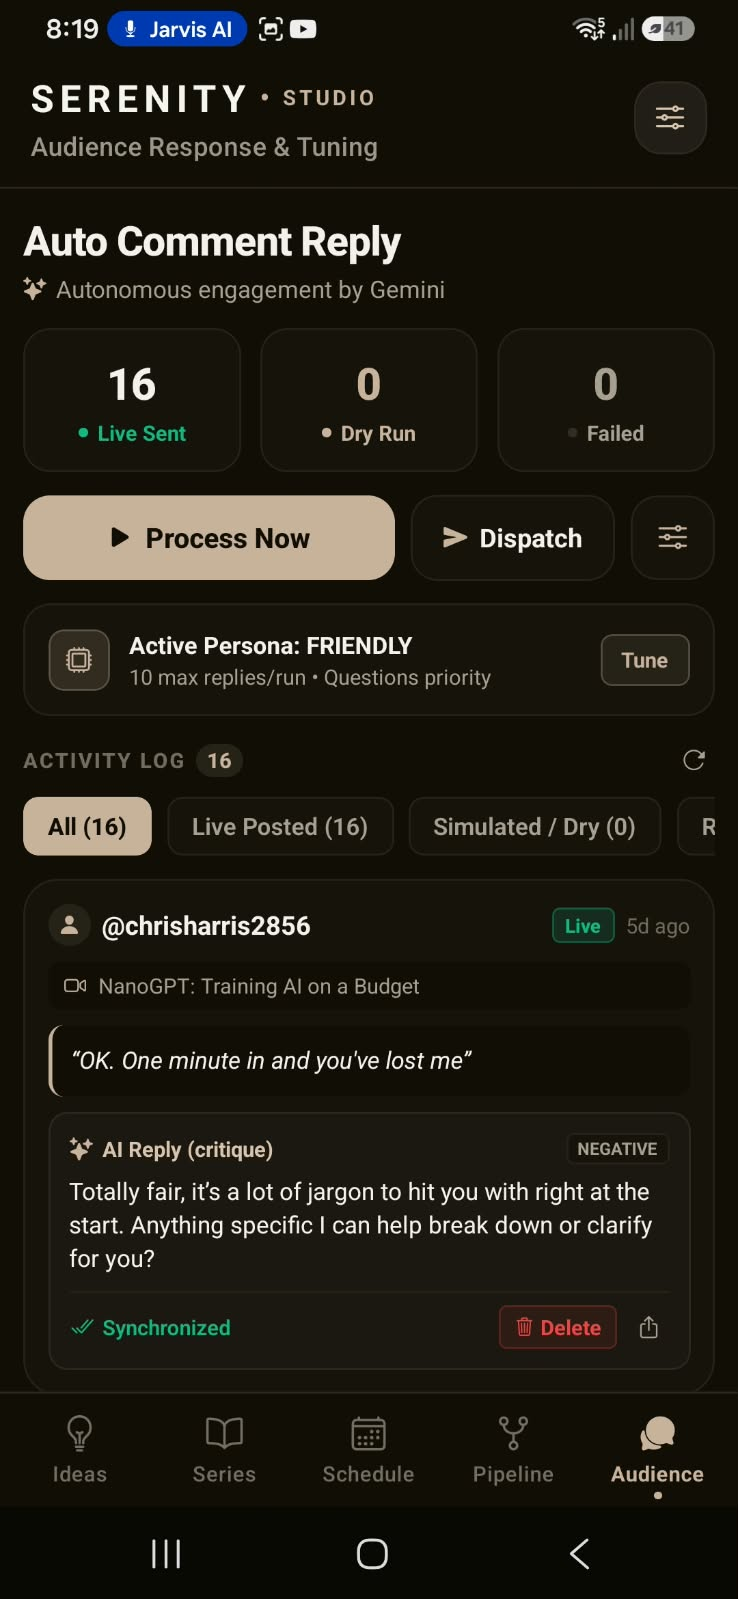
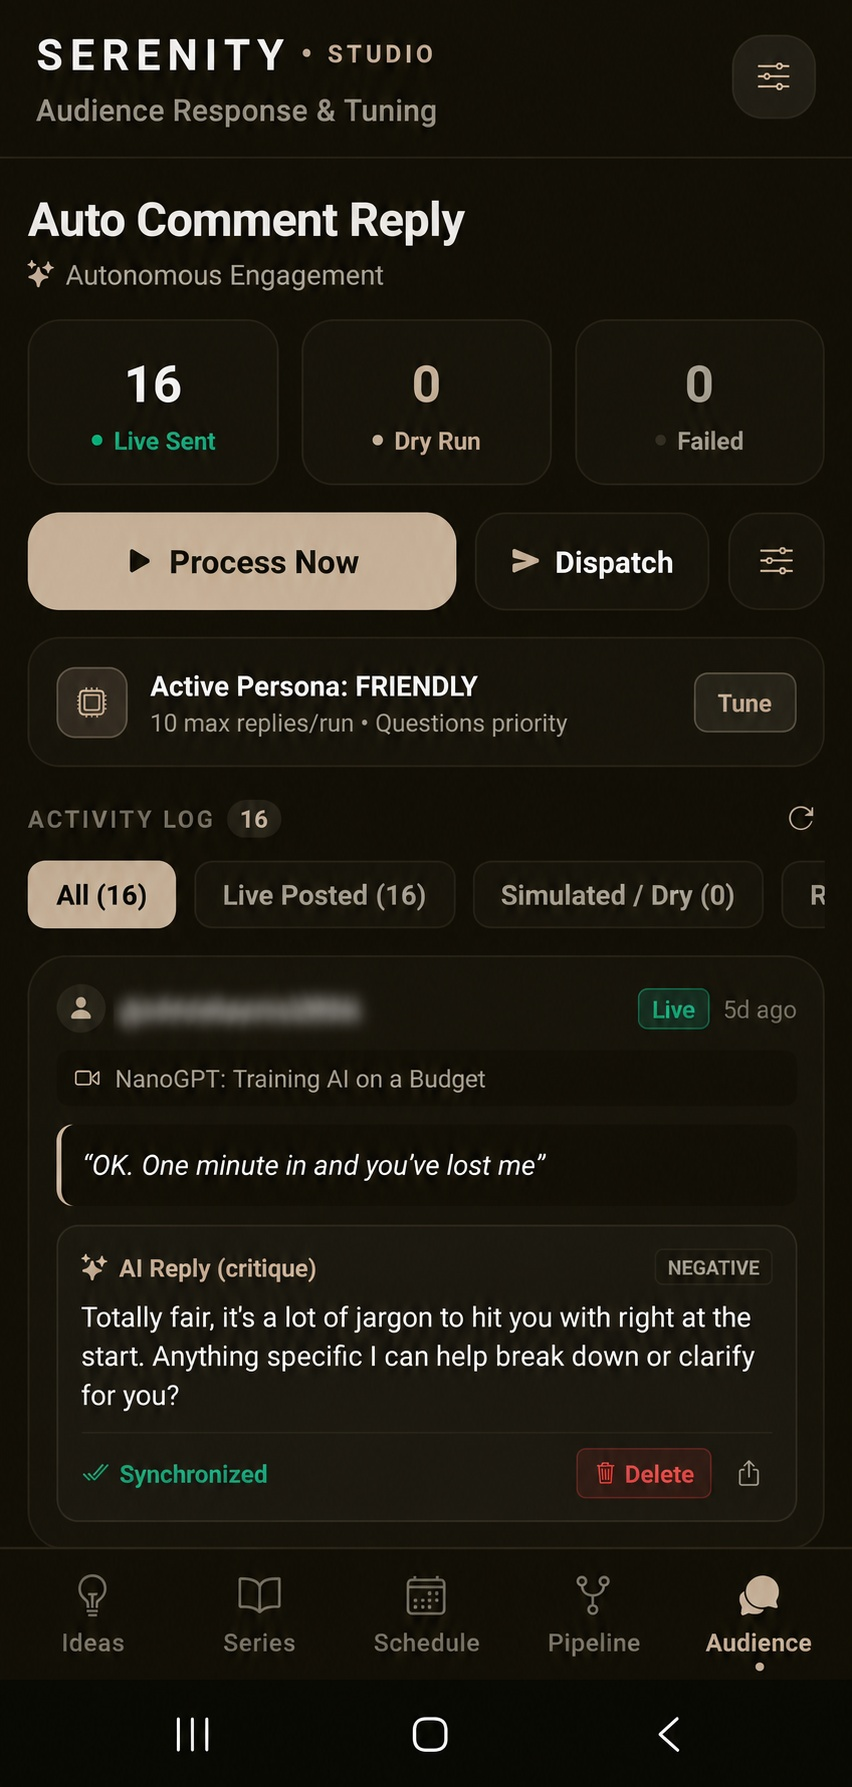
feat(landing): update app screenshots and neutralize AI model claims to autonomous engagement

diff --git a/motioncraft-landing/components/ProductShowcase.tsx b/motioncraft-landing/components/ProductShowcase.tsx
@@ -83,10 +83,10 @@ const SHOWCASE_FEATURES: ShowcaseFeature[] = [
   {
     id: "audience-engagement",
     badge: "AUTONOMOUS ENGAGEMENT & RETENTION",
-    headline: "Auto Comment Reply Powered by Gemini: Always Engaged",
+    headline: "Autonomous Comment Reply: Always Engaged",
     subhead: "Autonomous Community Engagement with Tuned Brand Personas",
     description:
-      "Viewer retention isn't just about uploading videos—it's about responding to early feedback. Serenity Studio uses Gemini AI to review audience comments, prioritize technical questions, and reply empathetically to critiques.",
+      "Viewer retention isn't just about uploading videos—it's about responding to early feedback. Serenity Studio uses autonomous response intelligence to review audience comments, prioritize technical questions, and reply empathetically to critiques.",
     screenshotUrl: "/screenshots/audience-engagement.jpg",
     screenshotAlt: "Serenity Studio Audience Response & Tuning screen",
     metrics: [

diff --git a/motioncraft-landing/components/FaqSection.tsx b/motioncraft-landing/components/FaqSection.tsx
@@ -12,7 +12,7 @@ const FAQS: FaqItem[] = [
   {
     question: "What exactly does Serenity Studio automate?",
     answer:
-      "Serenity Studio automates the full operational production chain: topic queue management, beat-by-beat scene scripting, voiceover audio synthesis, 1080p motion graphic rendering, multi-track master assembly, high-CTR thumbnail generation, scheduled YouTube long-form publishing, 5-slot Shorts syndication, and Gemini-powered audience comment responses.",
+      "Serenity Studio automates the full operational production chain: topic queue management, beat-by-beat scene scripting, voiceover audio synthesis, 1080p motion graphic rendering, multi-track master assembly, high-CTR thumbnail generation, scheduled YouTube long-form publishing, 5-slot Shorts syndication, and autonomous audience comment responses.",
   },
   {
     question: "Can I review and edit content before it gets published?",

diff --git a/motioncraft-landing/components/AudienceSection.tsx b/motioncraft-landing/components/AudienceSection.tsx
@@ -25,7 +25,7 @@ const AUDIENCE_SEGMENTS = [
     title: "YouTube Automation Agencies",
     tagline: "Deliver consistent publishing schedules for high-ticket clients",
     pain: "Missed deadlines, inconsistent thumbnail branding, and dropped upload cadence.",
-    gain: "Predictable daily release windows (e.g. 18:30 IST) and automated Gemini comment engagement for client retention.",
+    gain: "Predictable daily release windows (e.g. 18:30 IST) and autonomous comment engagement for client retention.",
   },
 ];
 

diff --git a/motioncraft-landing/lib/pricing-config.ts b/motioncraft-landing/lib/pricing-config.ts
@@ -58,7 +58,7 @@ export const BETA_PRICING_CONFIG: {
       "Programmatic high-CTR YouTube thumbnails",
       "Automated YouTube long-form scheduling (Prime windows)",
       "5-slot automated Shorts clipping & retention scheduling",
-      "Autonomous Gemini-powered comment response & persona tuning",
+      "Autonomous comment response & persona tuning",
     ],
     operationalBenefits: [
       "Priority GPU rendering queue & dedicated storage",

diff --git a/motioncraft-landing/components/WorkflowSection.tsx b/motioncraft-landing/components/WorkflowSection.tsx
@@ -88,7 +88,7 @@ const WORKFLOW_STEPS: WorkflowStep[] = [
   {
     number: "09",
     stage: "Autonomous Audience Engagement",
-    headline: "Gemini-Powered Comment Tuning",
+    headline: "Autonomous Comment Tuning",
     description:
       "Engages with viewers autonomously using tuned brand personas (e.g. FRIENDLY), answering technical questions and de-escalating critiques.",
     telemetryMetric: "Live Posted Replies · Sentiment Tracked",
